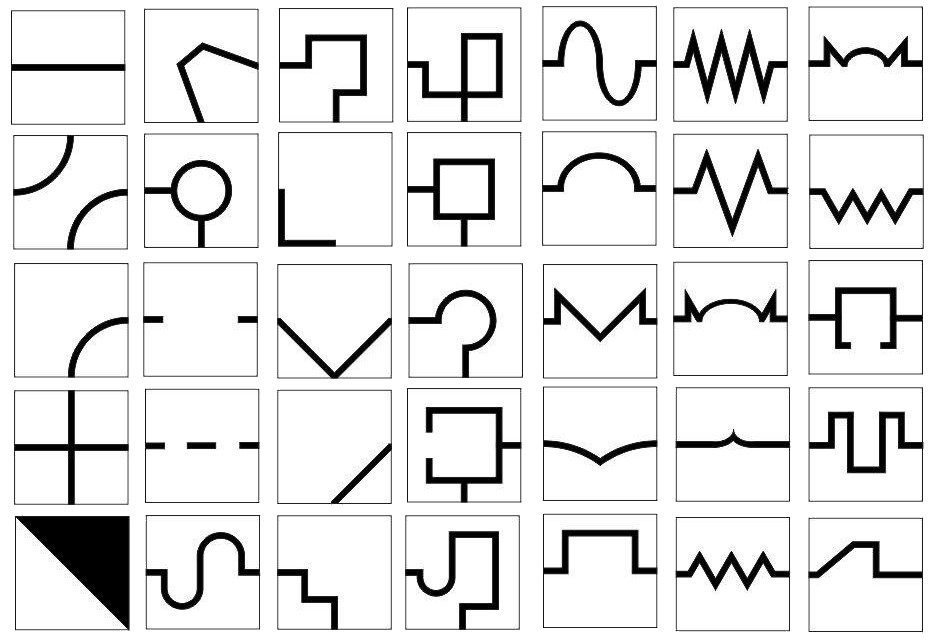
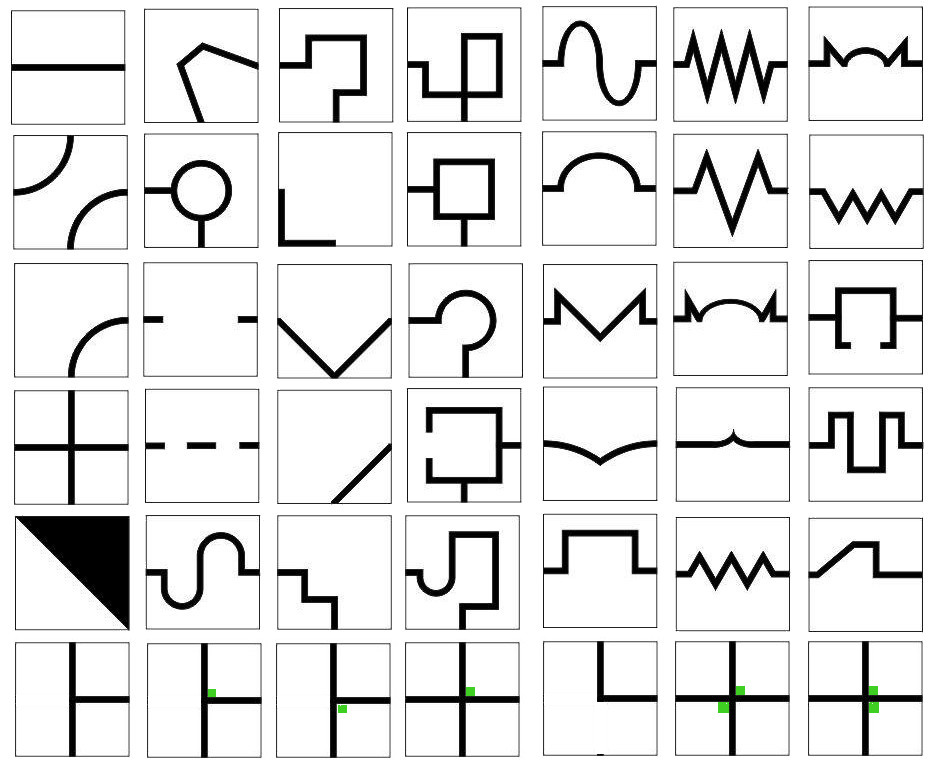
new tiles

diff --git a/script.js b/script.js
@@ -34,6 +34,15 @@ $(document).ready(function () {
     $("#container").append(addTile(676, 517, 34));
     $("#container").append(addTile(809, 518, 35));
 
+    $("#container").append(addTile(16, 643, 36));
+    $("#container").append(addTile(147, 643, 37));
+    $("#container").append(addTile(277, 643, 39));
+    $("#container").append(addTile(405, 643, 40));
+    $("#container").append(addTile(543, 643, 41));
+
+    $("#container").append(addTile(675, 643, 42));
+    $("#container").append(addTile(809, 643, 43));
+
     $("#pickup").click(function () {
         if ($(this).hasClass("active")) {
             $(this).removeClass("active")
